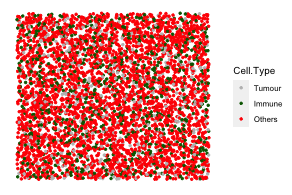
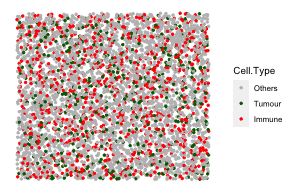
Fixed the incorrectly plotted image in README

diff --git a/README.md b/README.md
@@ -54,7 +54,8 @@ with multiple cell types of different proportions.
 ``` r
 library(spaSim)
 set.seed(610)
-mix_background <- TIS(n_cells = 5000, width = 2000, height = 2000, min_d = 10,
+mix_background <- TIS(n_cells = 5000, width = 2000, height = 2000, 
+                      bg_method = "Hardcore", min_d = 10,
                       names_of_bg_cells = c("Tumour","Immune","Others"),
                       proportions_of_bg_cells = c(0.1, 0.2, 0.7),
                       plot_image = TRUE)
@@ -66,9 +67,3 @@ mix_background <- TIS(n_cells = 5000, width = 2000, height = 2000, min_d = 10,
 
 spaSim was created, designed and implemented by Yuzhou Feng. Anna Trigos
 provided supervision and guidance.
-
-## Manuscript submission
-
-Note that the version used in the manuscript under review is v0.99.1.
-The release can be accessed
-[here](https://github.com/TrigosTeam/spaSim/releases/tag/v0.99.1).
